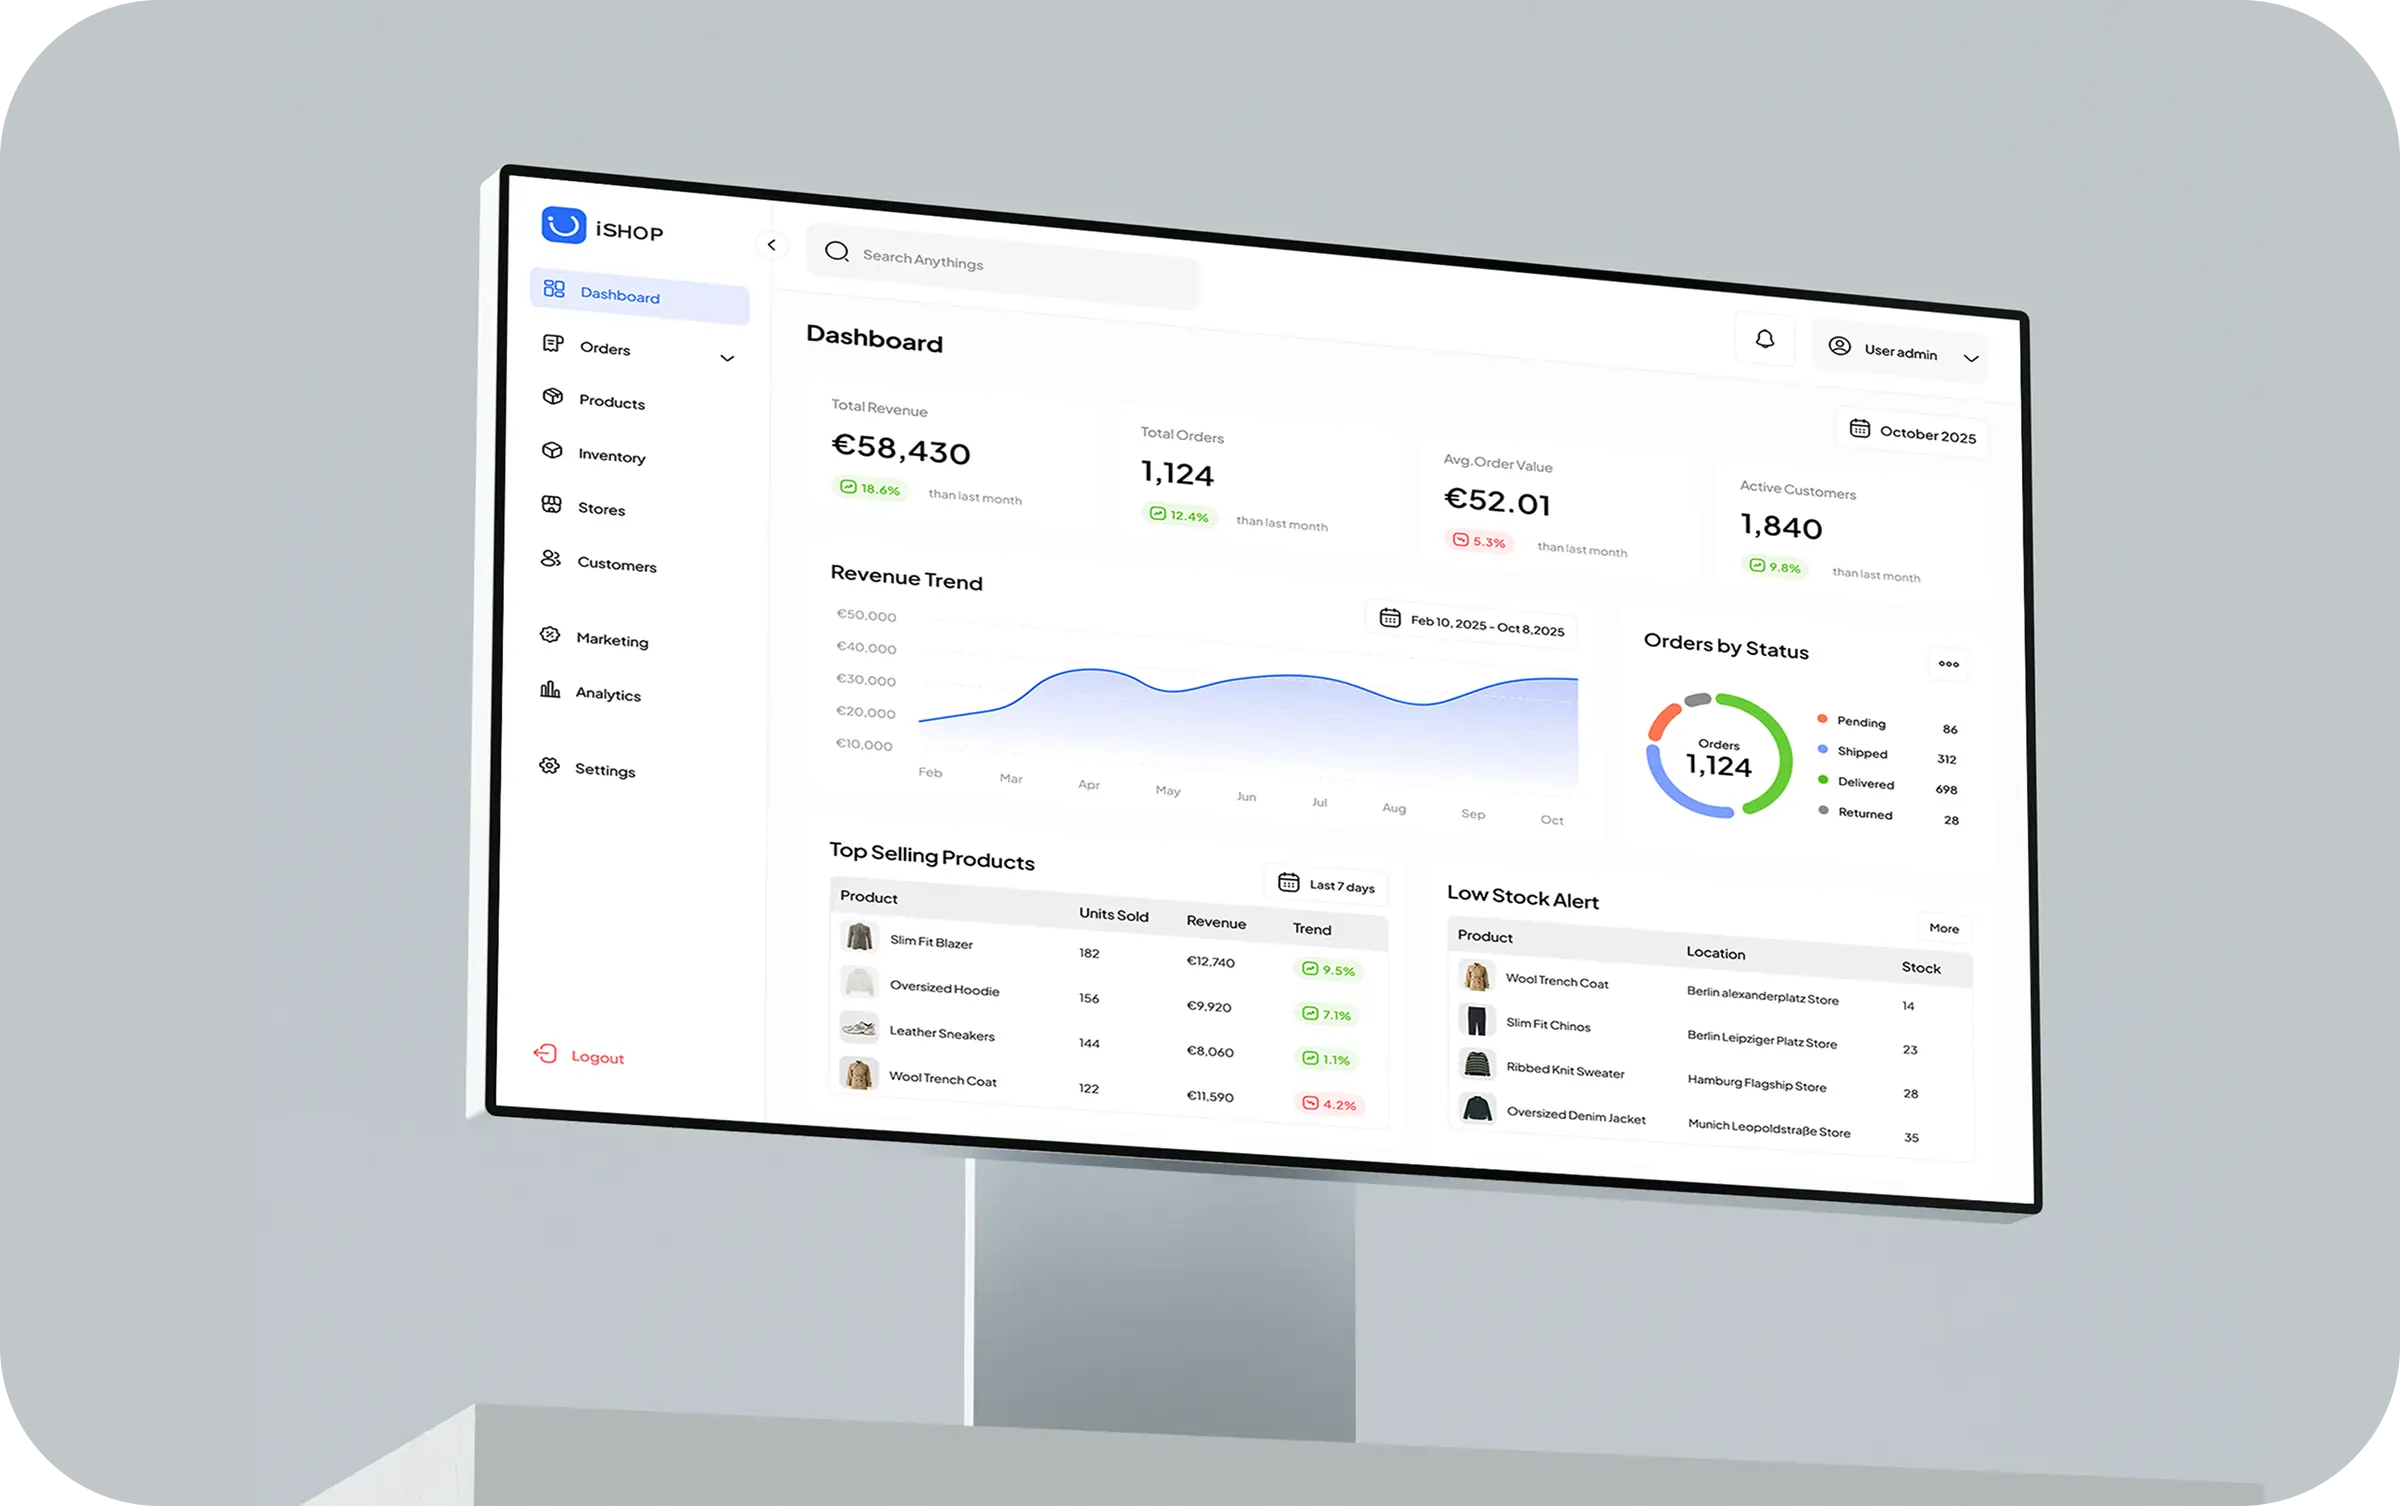
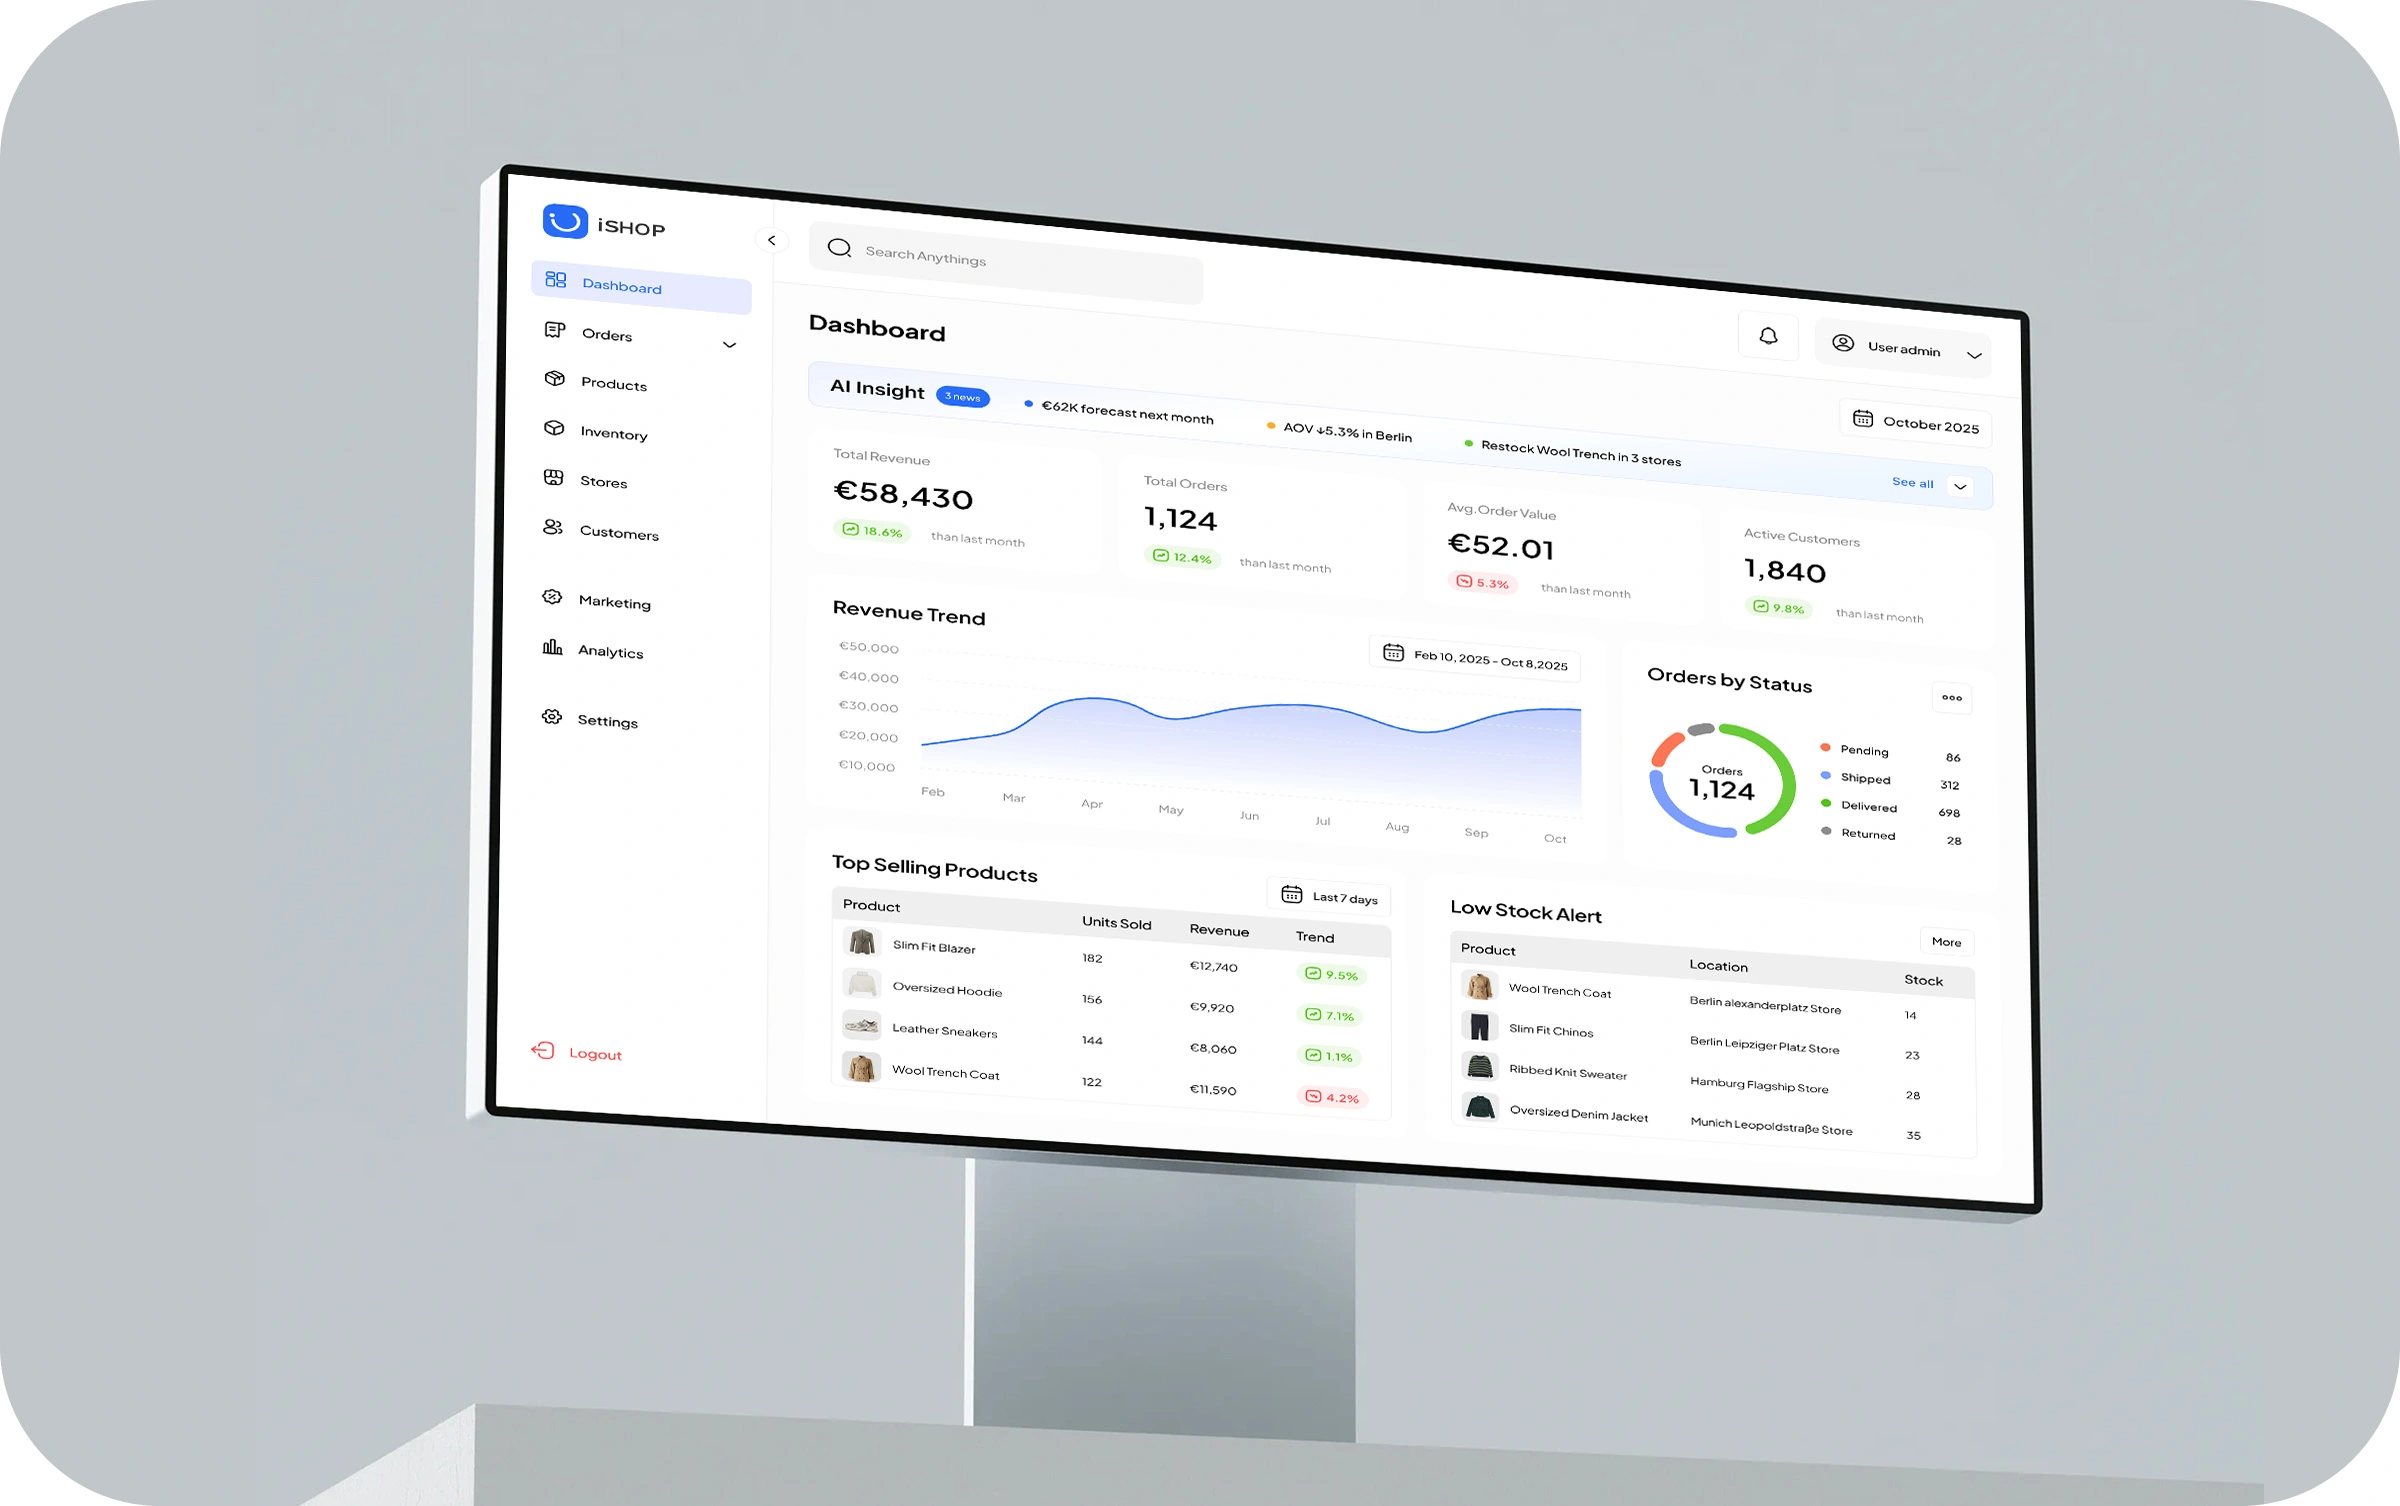
Add AI Insights module and update Before/After copy in iShop Admin

diff --git a/ishop-admin/ishop-admin.html b/ishop-admin/ishop-admin.html
@@ -297,8 +297,8 @@
       <div class="ba-card before">
         <div class="ba-card-title">Before</div>
         <ul>
-          <li>No navigation structure — everything on one page</li>
-          <li>Data shown as raw numbers, no trends or context</li>
+          <li>No navigation structure — everything crammed on one page</li>
+          <li>Raw numbers without trends, context, or anomaly detection</li>
           <li>Restock requires switching between 2 separate systems</li>
           <li>No way to filter or search orders efficiently</li>
         </ul>
@@ -307,9 +307,9 @@
         <div class="ba-card-title">After</div>
         <ul>
           <li>Sidebar navigation with clear module separation</li>
-          <li>Revenue trends, order status and stock alerts in one view</li>
-          <li>Restock triggered directly from inventory list</li>
-          <li>Advanced filters with payment status, value range, and fulfillment</li>
+          <li>AI insights — context aware suggestions based on live data</li>
+          <li>Advanced filters across payment status, value, and fulfillment</li>
+          <li>Restock triggered directly from low-stock alerts</li>
         </ul>
       </div>
     </div>
@@ -331,6 +331,21 @@
       <span class="ba-tag after">After</span>
     </div>
     <p class="ba-hint">← Drag to compare →</p>
+  </div>
+</div>
+
+<!-- AI INSIGHTS -->
+<div class="module">
+  <div class="container">
+    <div class="module-header fade">
+      <div class="module-title">AI Insights</div>
+      <div class="module-desc">Revenue forecasts, regional anomalies, and restocking recommendations surfaced automatically — each with context and a clear next action. Replacing a weekly habit of digging through reports to spot what mattered.</div>
+    </div>
+    <div class="video-box fade" style="aspect-ratio:2878/2160;">
+      <video autoplay muted loop playsinline preload="auto">
+        <source src="./img/AI insight.mp4" type="video/mp4">
+      </video>
+    </div>
   </div>
 </div>
 